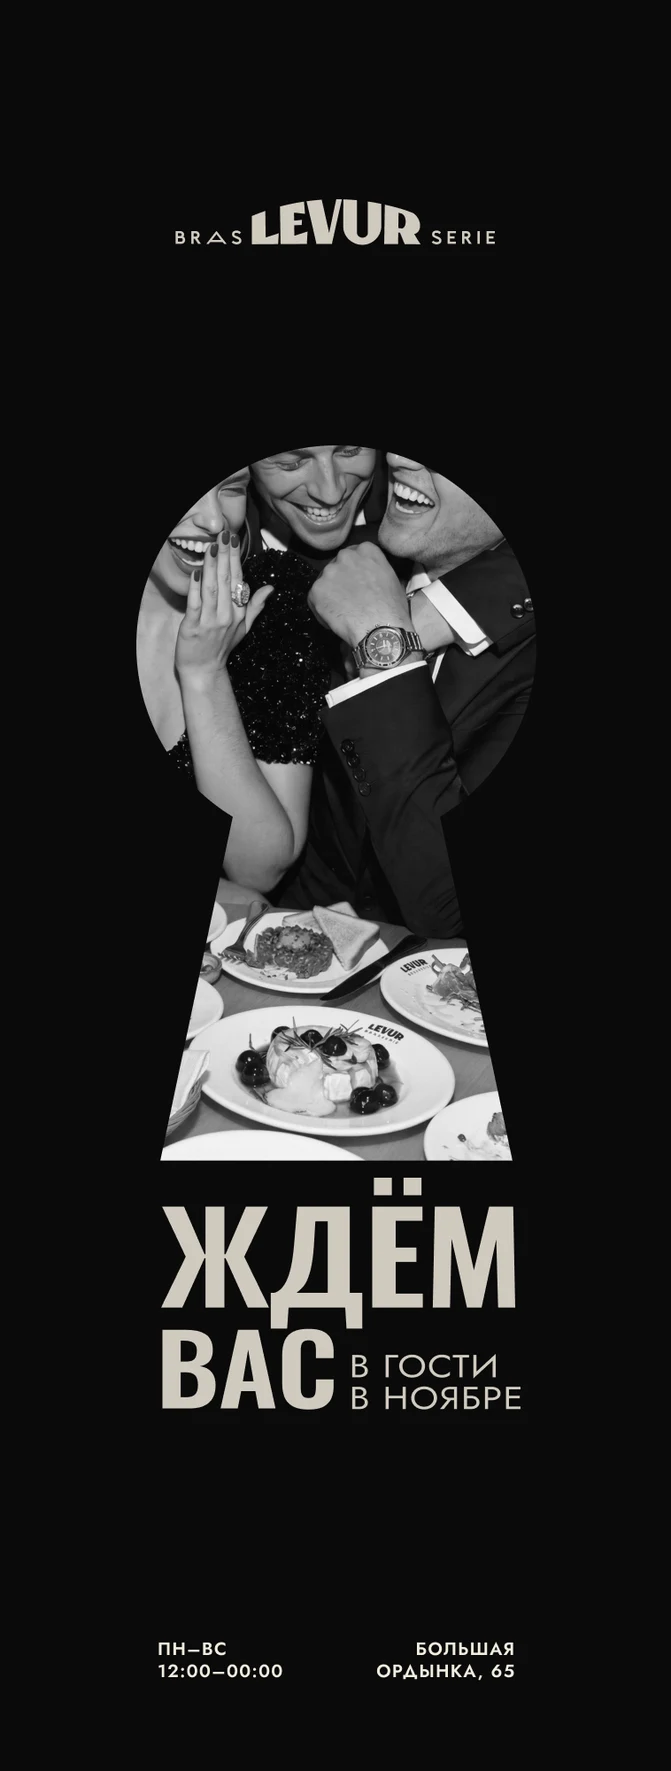
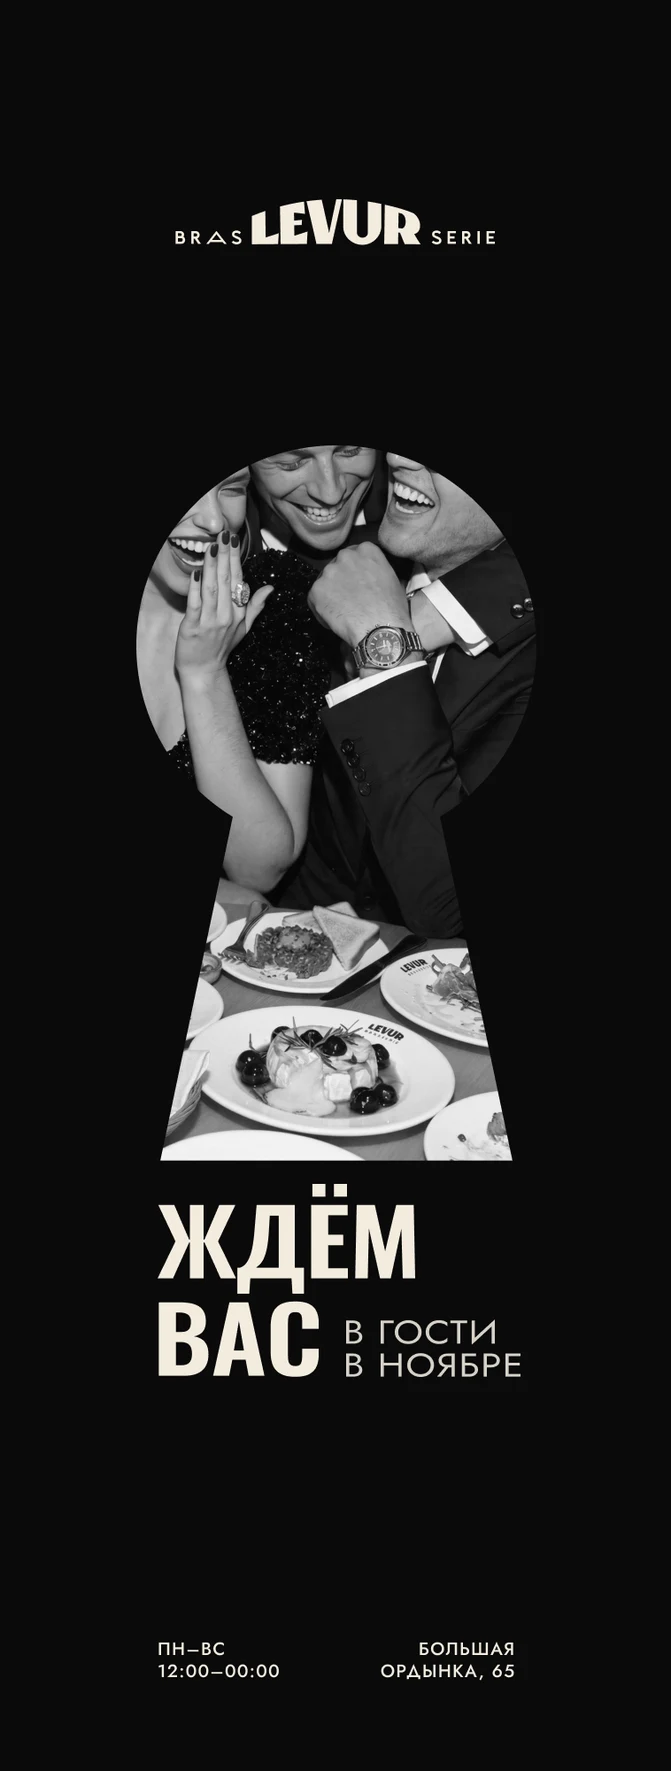
Концепция 2, вариант 1: по основному компоненту, заголовок мельче

diff --git a/index.html b/index.html
@@ -159,7 +159,7 @@
           <div class="plate">
             <div class="ly" data-depth="0.35">
               <img class="leaf" src="door-3d/door.webp" alt="">
-              <img class="sticker" id="k1" src="door-3d/sticker-keyhole.webp?v=20261028g" alt="Наклейка с замочной скважиной «Ждём вас в гости в ноябре» на стекле двери LEVUR">
+              <img class="sticker" id="k1" src="door-3d/sticker-keyhole.webp?v=20261028i" alt="Наклейка с замочной скважиной «Ждём вас в гости в ноябре» на стекле двери LEVUR">
               <div class="sheen"></div>
             </div>
             <div class="ly" data-depth="1">
@@ -171,7 +171,7 @@
           </div>
           <div class="shade"></div>
         </div></div>
-        <figcaption>Вариант 1<span class="opts" role="group" aria-label="Цвет фото"><button type="button" data-img="k1" data-src="door-3d/sticker-keyhole.webp?v=20261028g" aria-pressed="true">Цвет</button><button type="button" data-img="k1" data-src="door-3d/sticker-keyhole-bw.webp?v=20261028g" aria-pressed="false">ЧБ</button></span></figcaption>
+        <figcaption>Вариант 1<span class="opts" role="group" aria-label="Цвет фото"><button type="button" data-img="k1" data-src="door-3d/sticker-keyhole.webp?v=20261028i" aria-pressed="true">Цвет</button><button type="button" data-img="k1" data-src="door-3d/sticker-keyhole-bw.webp?v=20261028i" aria-pressed="false">ЧБ</button></span></figcaption>
       </figure>
       <figure>
         <div class="frame"><div class="view" role="button" tabindex="0" aria-label="Открыть на весь экран">
